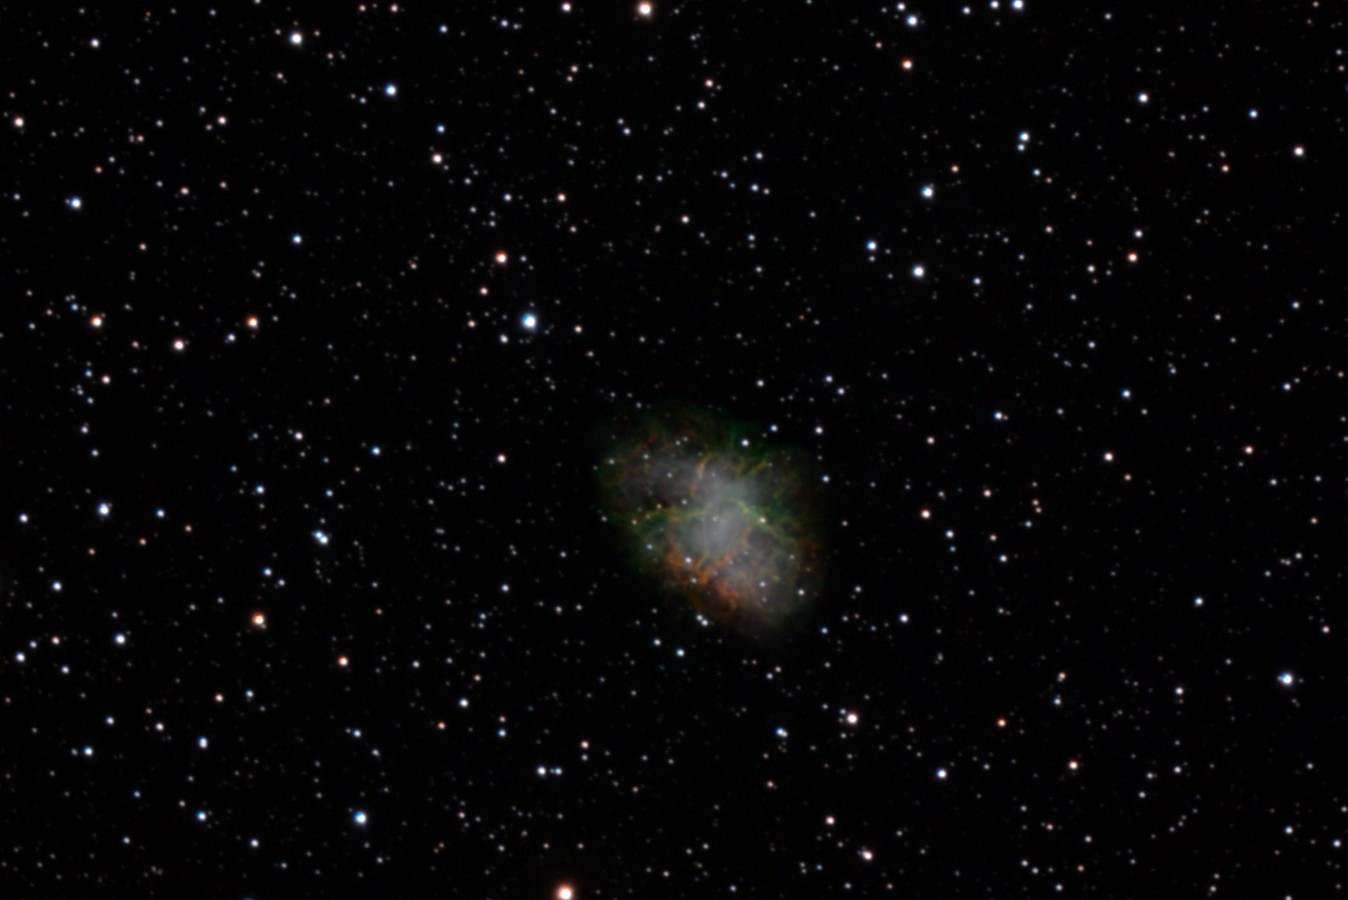
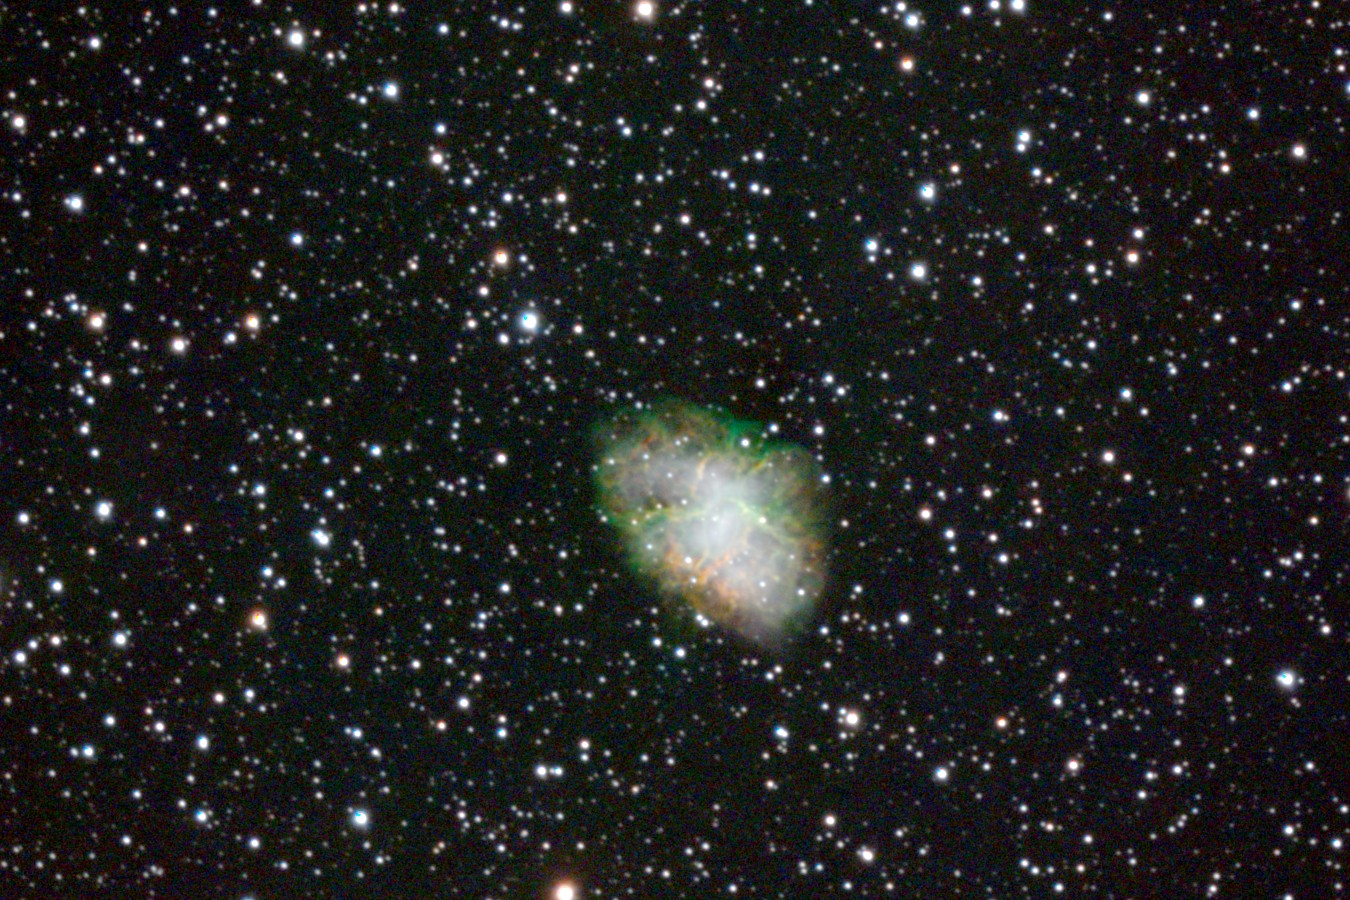
Gallery: render the full-resolution Crab with the crossfade's stretch, so it matches the animation

diff --git a/docs/index.html b/docs/index.html
@@ -41,7 +41,7 @@ drawn in <a href="state_machines.html">the state-machine charts</a>.</p>
 <figure><a href="gallery/ngc2237.jpg" title="Full field, 1404 &times; 780"><img src="gallery/ngc2237_card.jpg" alt="Rosette Nebula, NGC 2237/2244" width="720" height="480" loading="lazy"></a><figcaption><b>Rosette Nebula, NGC 2237/2244</b><br>375 frames, 81 min &middot; 15 s at ISO 800 &middot; Antlia quad-band nebula filter &middot; nights of 16 Oct; 12 Nov 2026 &middot; star HFR 3.9&Prime;</figcaption></figure>
 <figure><a href="gallery/ngc869.jpg" title="Full field, 1372 &times; 792"><img src="gallery/ngc869_card.jpg" alt="Double Cluster, NGC 869 and 884" width="720" height="480" loading="lazy"></a><figcaption><b>Double Cluster, NGC 869 and 884</b><br>281 frames, 66 min &middot; 14 s at ISO 800 &middot; no filter &middot; night of 11 Oct 2026 &middot; star HFR 3.6&Prime;</figcaption></figure>
 <figure><a href="gallery/m27.jpg" title="Full field, 1428 &times; 848"><img src="gallery/m27_card.jpg" alt="Dumbbell Nebula, M27" width="720" height="480" loading="lazy"></a><figcaption><b>Dumbbell Nebula, M27</b> <span class="tag">close crop</span><br>534 frames, 71 min &middot; 8 s at ISO 800 &middot; Antlia quad-band nebula filter &middot; night of 16 Oct 2026 &middot; star HFR 3.2&Prime;</figcaption></figure>
-<figure><a href="gallery/m1.jpg" title="Full field, 1348 &times; 900"><img src="gallery/m1_card.jpg" alt="Crab Nebula, M1" width="720" height="480" loading="lazy"></a><figcaption><b>Crab Nebula, M1</b> <span class="tag">close crop</span><br>1481 frames, 249 min &middot; quad-band colour; broadband + quad-band luminance, full resolution &middot; nights of 31 Dec; 23 Jan; 5 Apr; 11, 13 Oct; 11, 12 Nov 2026</figcaption></figure>
+<figure><a href="gallery/m1.jpg" title="Full field, 1350 &times; 900"><img src="gallery/m1_card.jpg" alt="Crab Nebula, M1" width="720" height="480" loading="lazy"></a><figcaption><b>Crab Nebula, M1</b> <span class="tag">close crop</span><br>1481 frames, 249 min &middot; quad-band colour; broadband + quad-band luminance, full resolution &middot; nights of 31 Dec; 23 Jan; 5 Apr; 11, 13 Oct; 11, 12 Nov 2026</figcaption></figure>
 <figure><a href="gallery/m57.jpg" title="Full field, 1468 &times; 924"><img src="gallery/m57_card.jpg" alt="Ring Nebula, M57" width="720" height="480" loading="lazy"></a><figcaption><b>Ring Nebula, M57</b> <span class="tag">close crop</span><br>331 frames, 110 min &middot; 20 s at ISO 800 &middot; Antlia quad-band nebula filter &middot; night of 15 Oct 2026 &middot; star HFR 3.6&Prime;</figcaption></figure>
 <figure><a href="gallery/ngc6946.jpg" title="Full field, 1384 &times; 692"><img src="gallery/ngc6946_card.jpg" alt="Fireworks Galaxy, NGC 6946" width="720" height="480" loading="lazy"></a><figcaption><b>Fireworks Galaxy, NGC 6946</b> <span class="tag">close crop</span><br>448 frames, 112 min &middot; 15 s at ISO 800 &middot; Antlia quad-band nebula filter &middot; night of 27 Oct 2026 &middot; star HFR 4.0&Prime;</figcaption></figure>
 <figure><a href="gallery/m33.jpg" title="Full field, 688 &times; 842"><img src="gallery/m33_card.jpg" alt="Triangulum Galaxy, M33" width="720" height="480" loading="lazy"></a><figcaption><b>Triangulum Galaxy, M33</b><br>335 frames, 64 min &middot; 9 s at ISO 800 &middot; Antlia quad-band nebula filter &middot; nights of 21, 29, 30 Oct; 11, 12 Nov 2026 &middot; star HFR 4.7&Prime;</figcaption></figure>

diff --git a/tools/gallery.py b/tools/gallery.py
@@ -100,7 +100,8 @@ def main():
             f = {"frames": sum(p.get("frames_stacked", 0) for p in parts), "minutes": sum(p.get("exposure_s", 0) for p in parts) / 60, "nights": nights,
                  "filter": "quad-band colour; broadband + quad-band luminance, full resolution", "sub": None, "hfr": None}
             rgb, cov, _ = GE.read_fullres(fd); H, W = cov.shape
-            out, _ = GE.finish(rgb[H // 2 - 450:H // 2 + 450, W // 2 - 675:W // 2 + 675], np.ones((900, 1350), np.float32), 0.5, 2048)
+            import crossfade                       # the same rendering as the crossfade animation (filter colours kept, gentle asinh)
+            out = crossfade.stretch(rgb, (W // 2 - 675, H // 2 - 450, W // 2 + 675, H // 2 + 450))
             im = Image.fromarray((out * 255).astype(np.uint8))
             crop = (im.width // 2, im.height // 2, 560)              # the card shows the Crab itself
         else:
